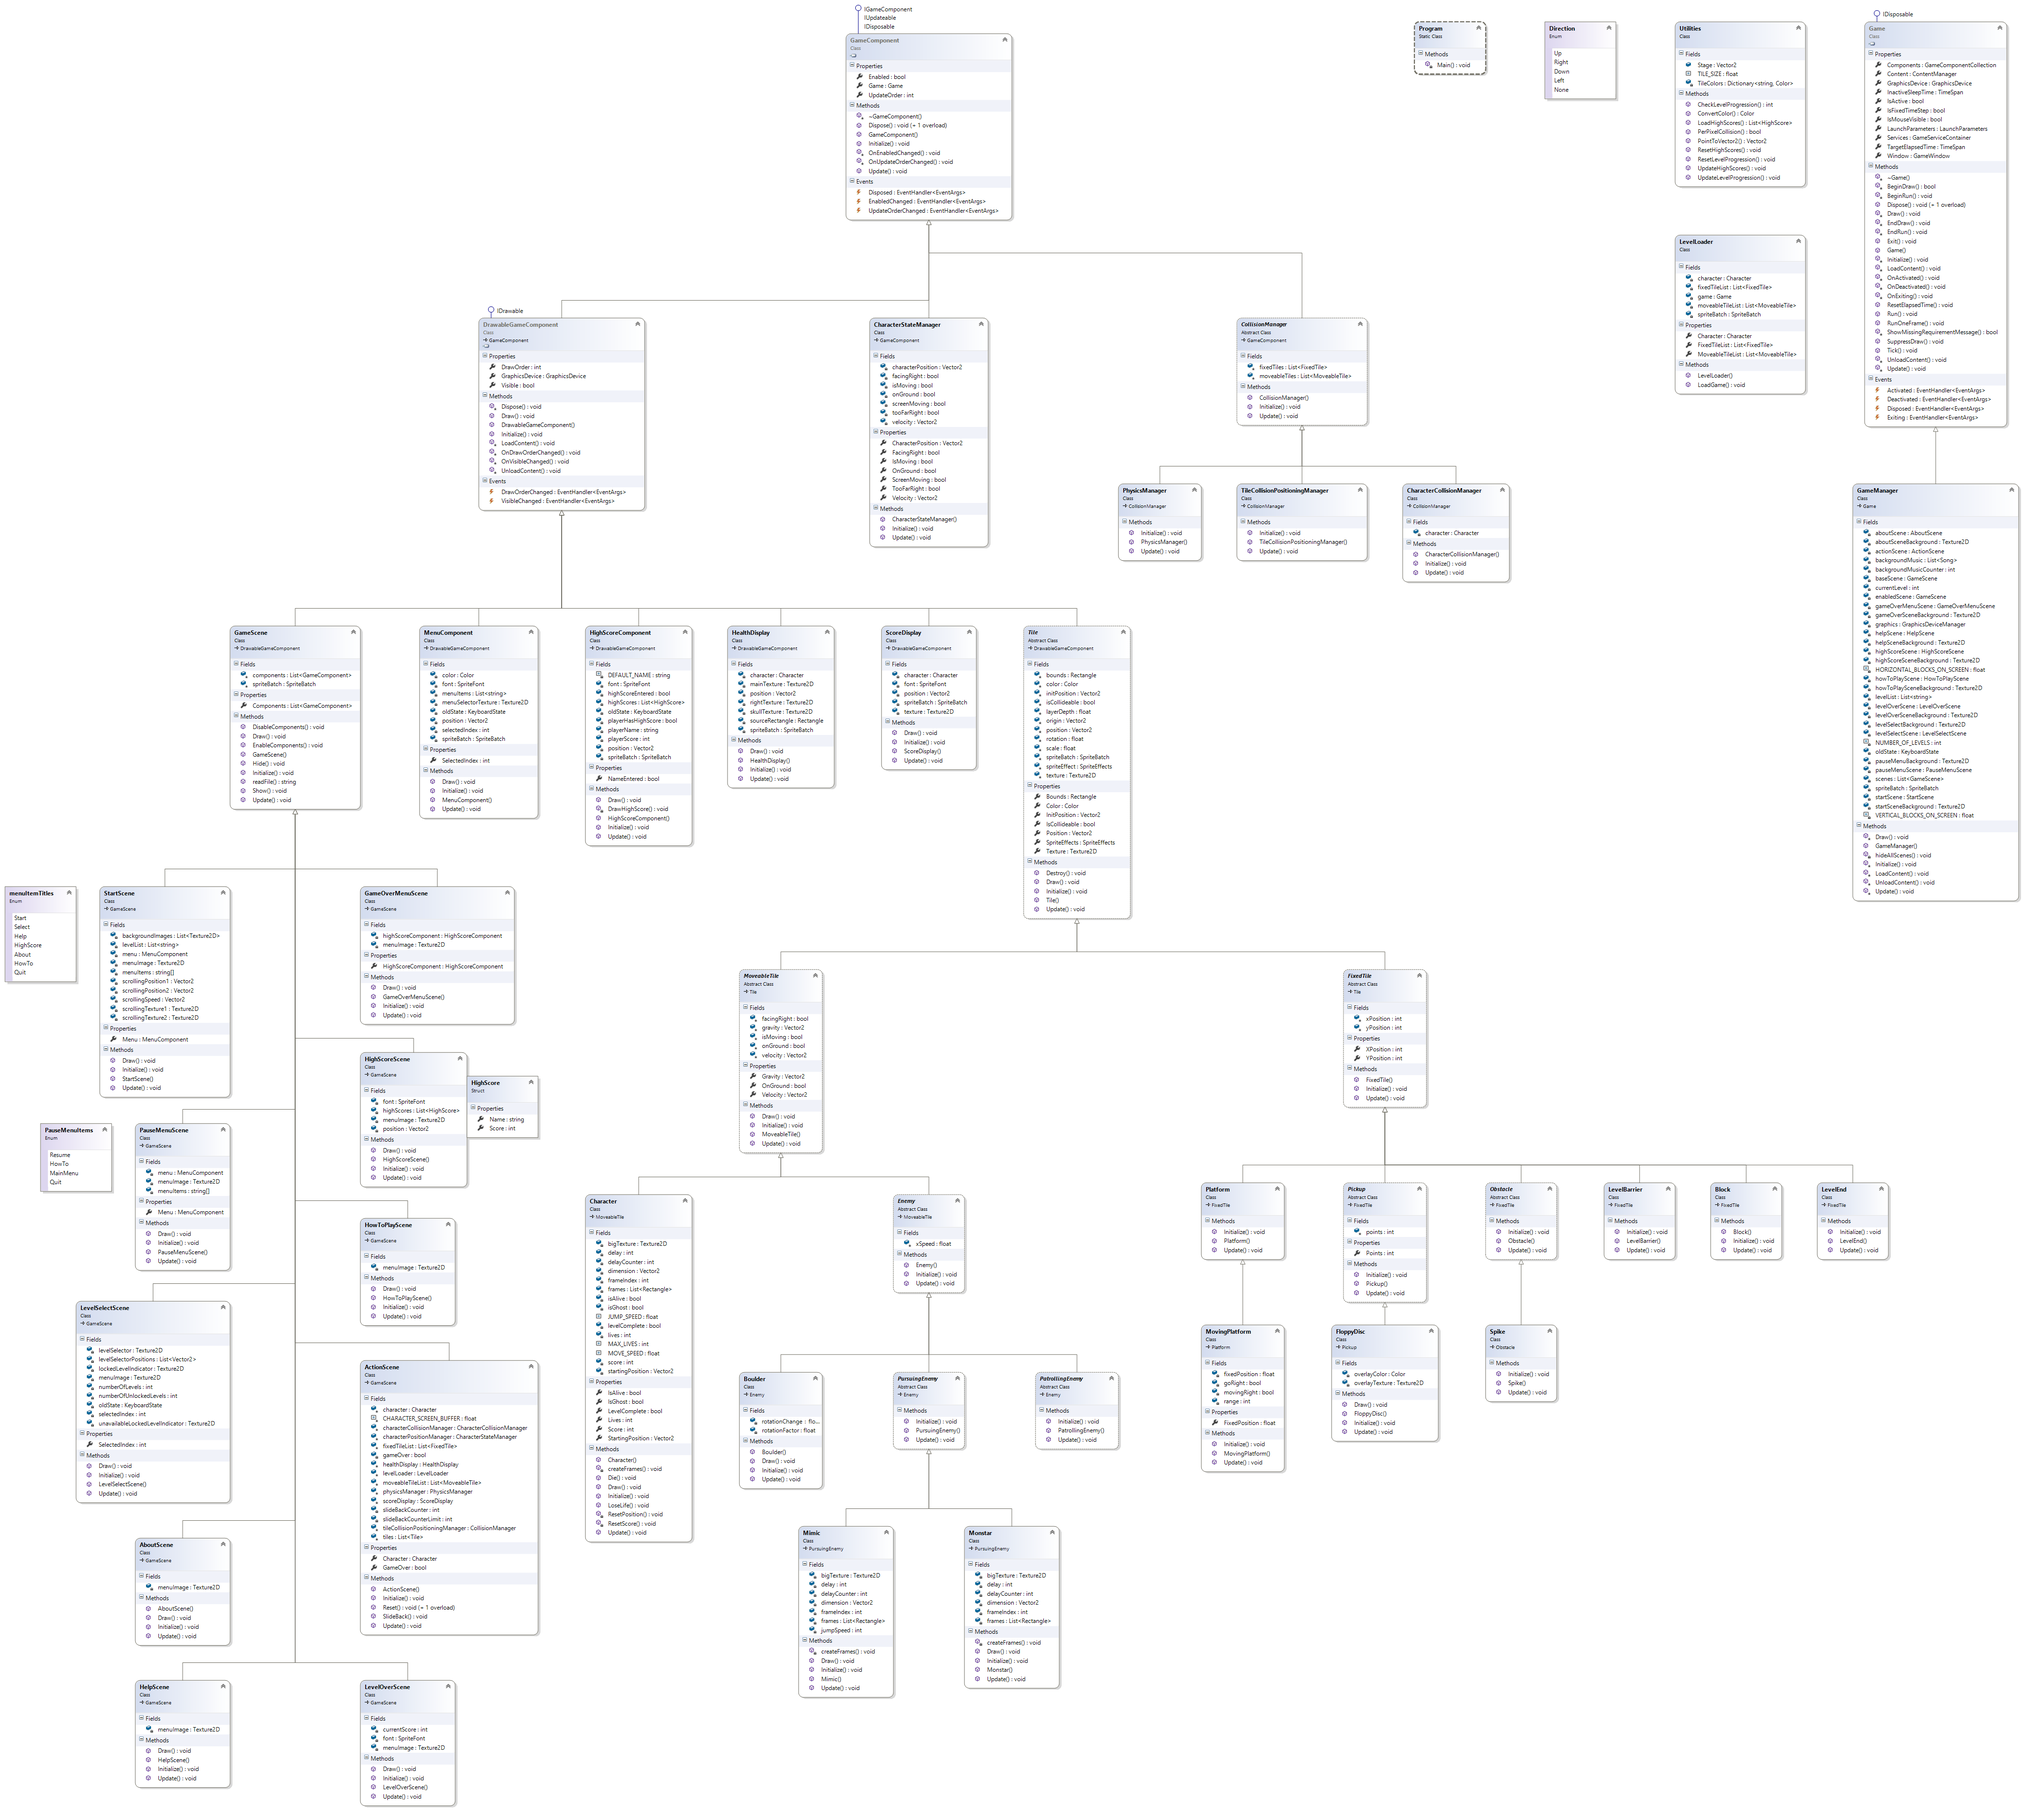
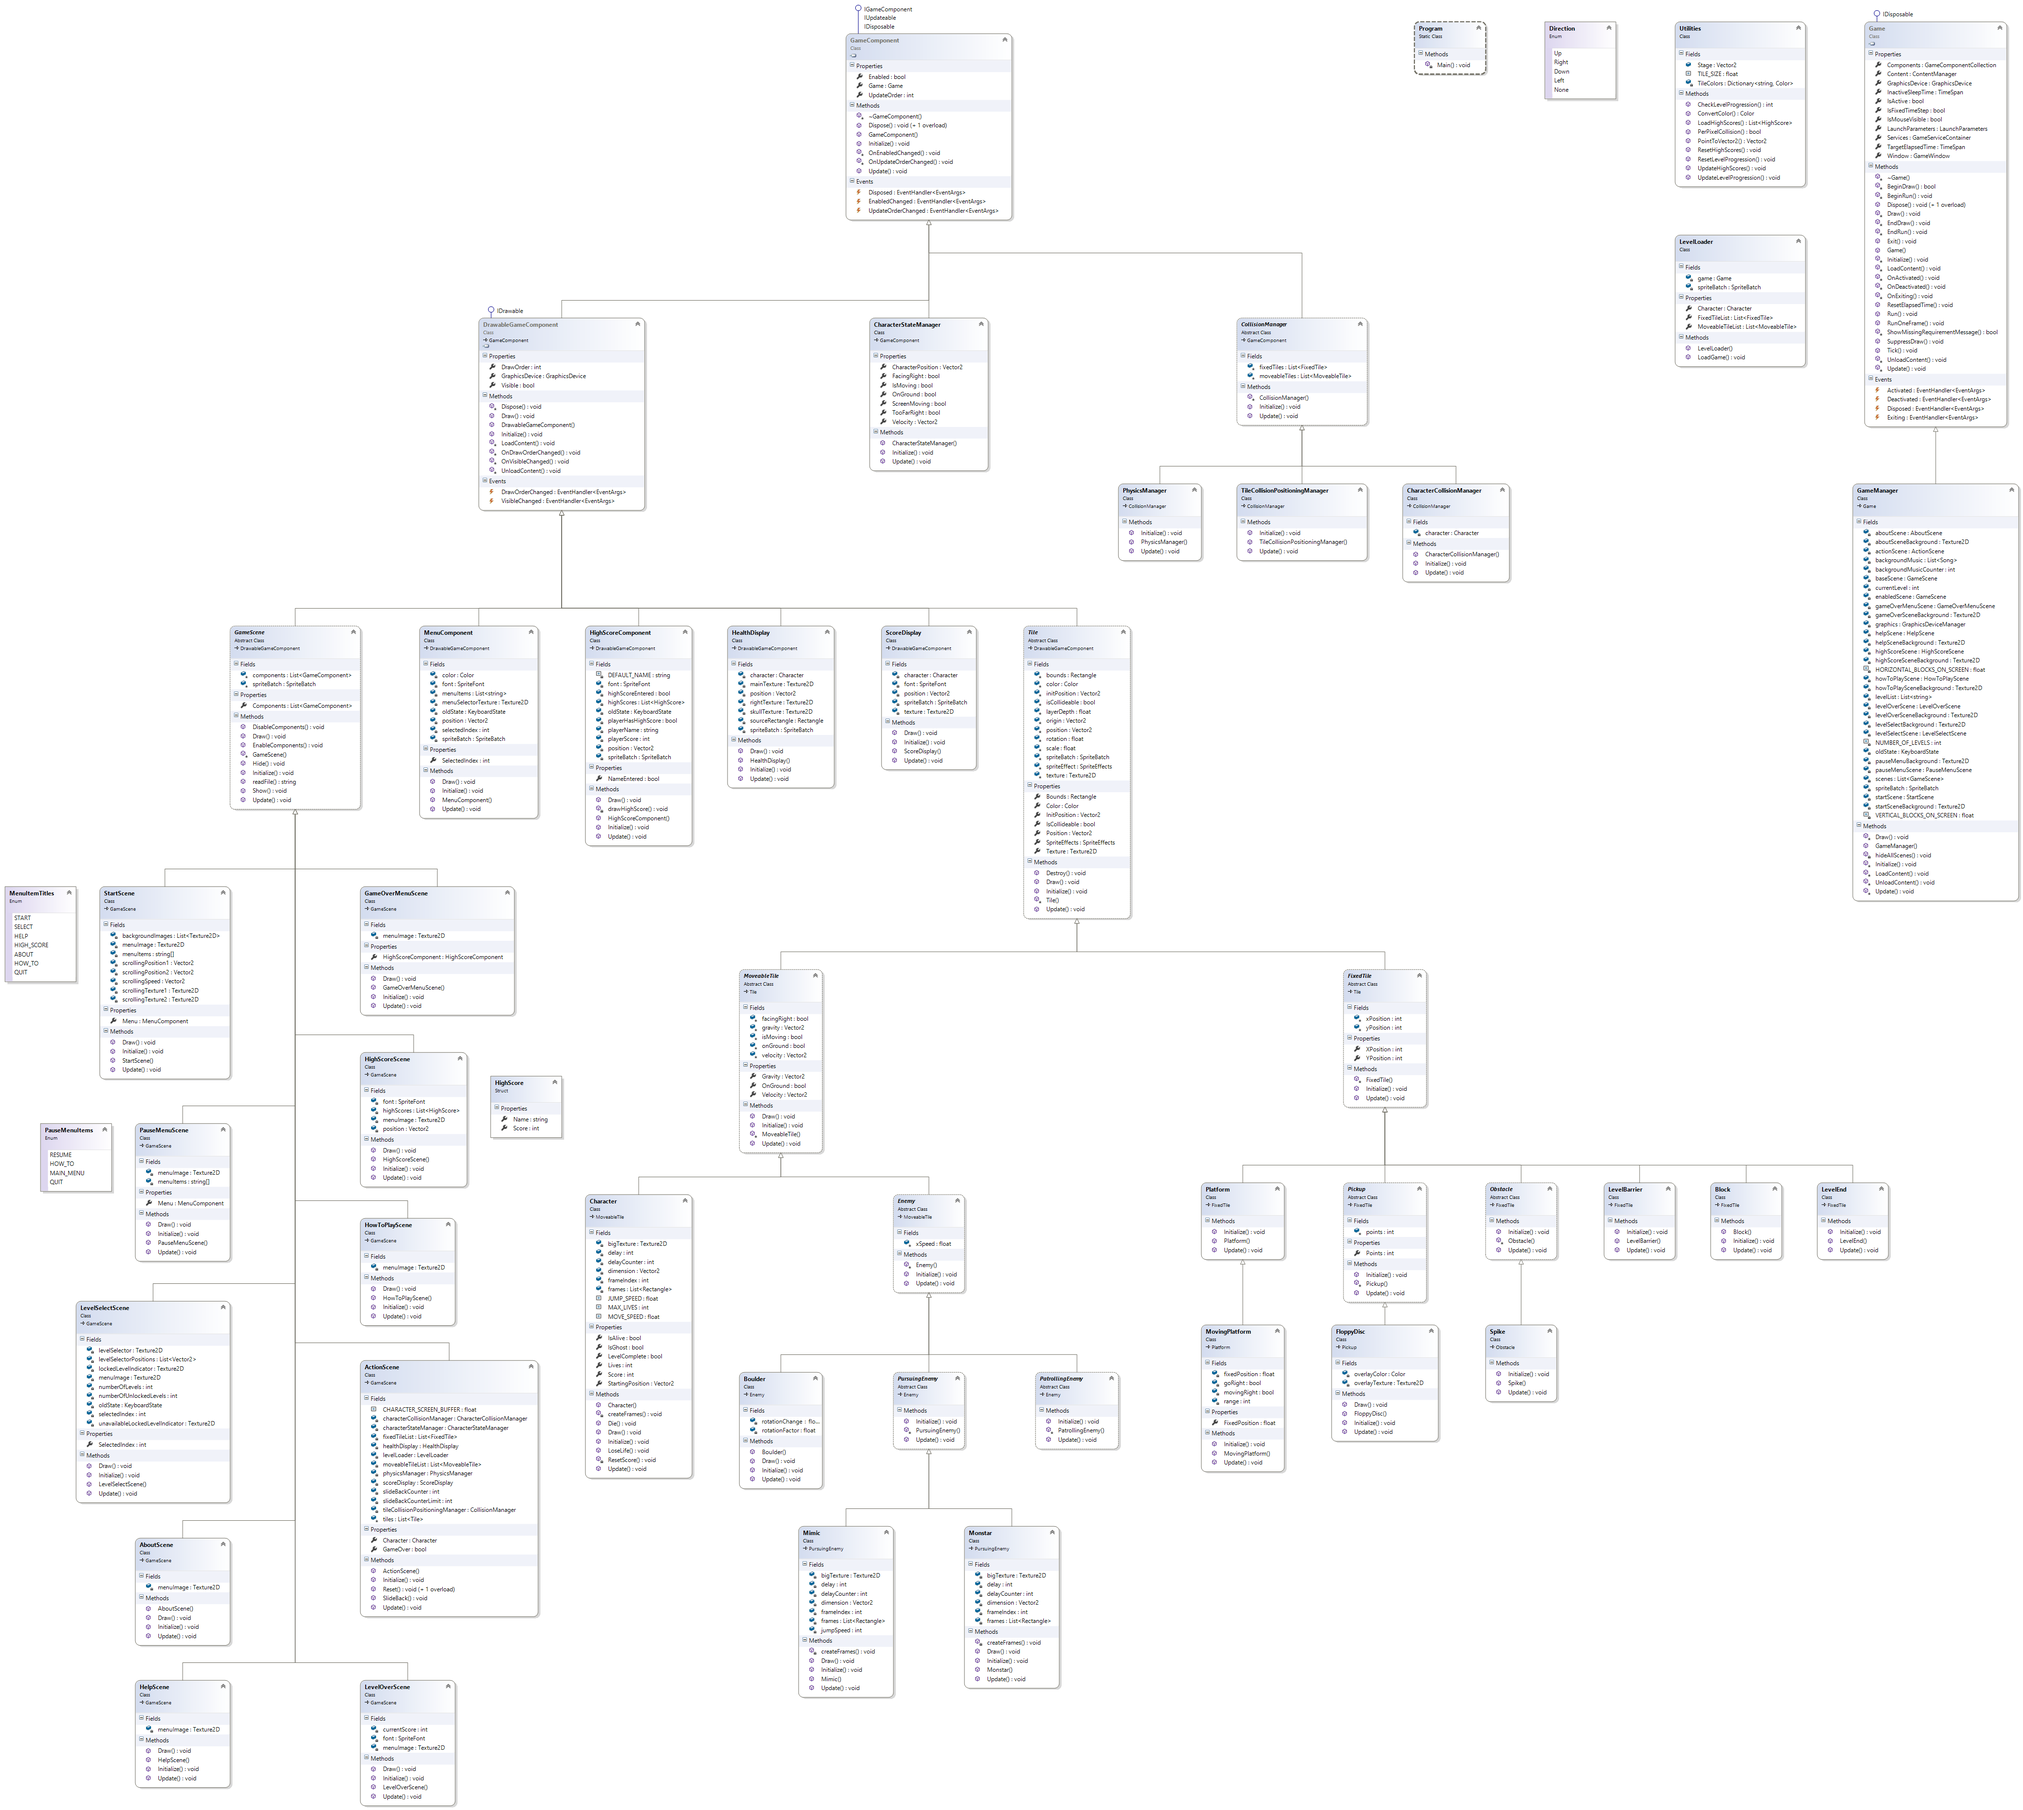
Updated enumeration

diff --git a/CaptainCPA/CaptainCPA/Scenes/StartScene.cs b/CaptainCPA/CaptainCPA/Scenes/StartScene.cs
@@ -34,7 +34,6 @@ namespace CaptainCPA.Scenes
 		private Vector2 scrollingPosition1;
 		private Vector2 scrollingPosition2;
 		private Vector2 scrollingSpeed;
-		private List<string> levelList;
 		private Texture2D menuImage;
 		private string[] menuItems = {"Start Game", "Select Level", "Help", "High Score", "About/Credit", "How to play", "Quit"};
 		
@@ -63,9 +62,6 @@ namespace CaptainCPA.Scenes
 			scrollingPosition1 = Vector2.Zero;
 			scrollingPosition2 = new Vector2(scrollingPosition1.X + scrollingTexture1.Width, scrollingPosition1.Y);
 			scrollingSpeed = new Vector2(1.0f, 0.0f);
-
-			//Create a list of levels
-			levelList = new List<string>() { "level1", "level2"};
 
 			//Set up the menu
 			Vector2 menuPosition = new Vector2(Utilities.Utilities.Stage.X / 2 + 140, Utilities.Utilities.Stage.Y / 2 - 110);
